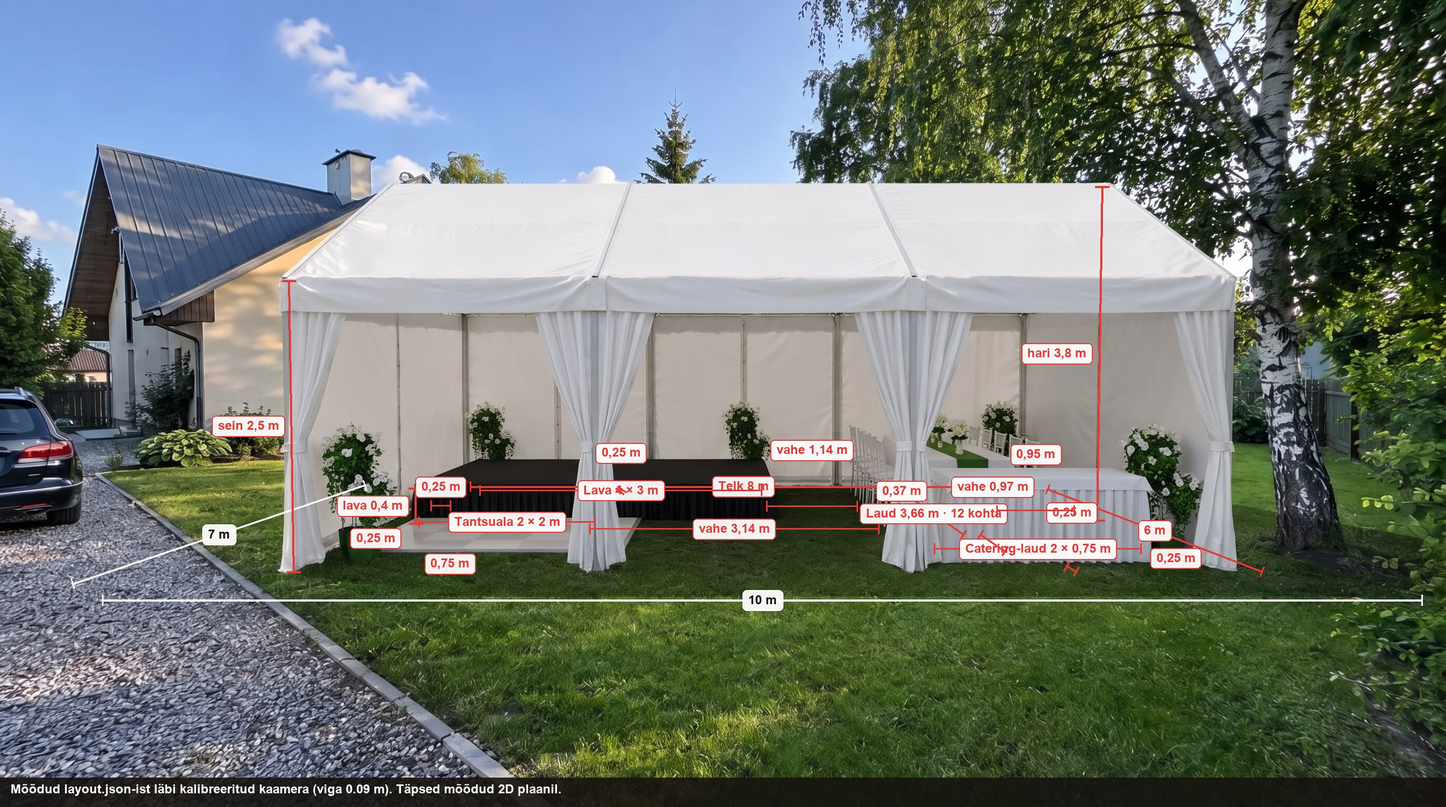
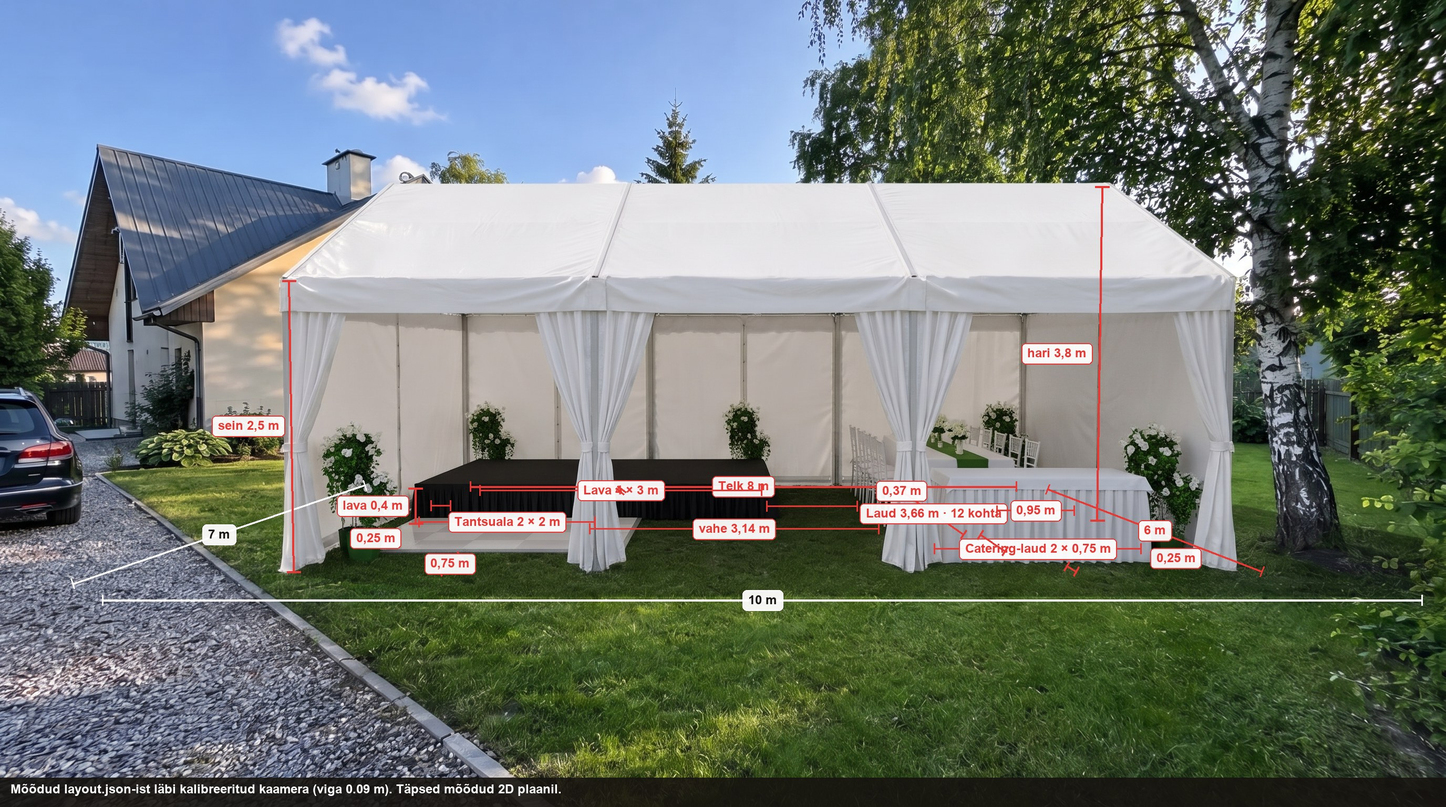
aiapidu brief: siltide kattumine koodis (väikesed vahesildid peidetakse, suured juhtjoonega), C pikk laud eest taha, kõrguste mõõtmine pikslites (height-errors.json)

diff --git a/demo/aiapidu/brief/measure-heights.py b/demo/aiapidu/brief/measure-heights.py
@@ -1,0 +1,51 @@
+# Kõrguse kontroll pikslites: telgi valge kanga ülaserv pildil vs projitseeritud sein/hari (kalibreeritud kaamera).
+import json,numpy as np,sys
+from PIL import Image
+D='/Users/taavimalm/objekti-ai/demo/aiapidu/brief';C=json.load(open(f'{D}/cam-cal.json'));f,th,h,W,H=C['f'],C['pitch'],C['h'],C['W'],C['H'];cx,cy=W/2,H/2
+AX,AN=.3-5,8.5
+def pj(px,py,z):
+  X=AX+px;Fw=AN+py;Y=h-z;zc=Fw*np.cos(th)+Y*np.sin(th);yc=-Fw*np.sin(th)+Y*np.cos(th);return cx+f*X/zc,cy+f*yc/zc
+def z_at(px,py,v):  # millisele kõrgusele vastab pildirida v (sama maapunkti kohal)
+  lo,hi=0.,8.
+  for _ in range(40):
+    m=(lo+hi)/2
+    if pj(px,py,m)[1]>v: lo=m
+    else: hi=m
+  return (lo+hi)/2
+def eave(a,u,v_top,v_lo):  # katuseriba alumine serv: valgest allapoole esimene mittevalge rida (avatud sisemus postide vahel)
+  white=lambda v:(lambda p:p.min()>175 and p.max()-p.min()<45)(a[v,int(u)-2:int(u)+3].mean(0))
+  v=int(v_top)
+  while v<v_lo and not white(v): v+=1
+  while v<v_lo and white(v): v+=1
+  return v
+def top_white(a,u,v_lo,v_hi):  # esimene rida ülalt, kus 5 px veerg on valge kangas
+  for v in range(int(v_hi),int(v_lo)):
+    p=a[v,int(u)-2:int(u)+3].mean(0)
+    if p.min()>185 and p.max()-p.min()<40: return v
+  return None
+out={}
+for v in sys.argv[1:]:
+  L=json.load(open(f'{D}/{v}-layout.json'))['layout'];o=L['origin'];R=L['room'];t=L['tent']
+  img=Image.open(f'/tmp/cal/ai-{v}.jpg').convert('RGB');S=img.width/W;a=np.asarray(img.resize((W,H))).astype(int)
+  res={}
+  if t['type']=='stretch':
+    for name,(px,py),z in [('serv (vasak ots)',(o['x']+.3,o['y']),t['sideH']),('tipp (vasak)',(o['x']+R['L']*.3,o['y']+R['W']/2),t['ridgeH']),('tipp (parem)',(o['x']+R['L']*.7,o['y']+R['W']/2),t['ridgeH'])]:
+      u,vz=pj(px,py,z);vt=top_white(a,u,pj(px,py,0)[1],vz-140);res[name]=(z,None if vt is None else round(z_at(px,py,vt),2))
+  else:
+    n=max(1,round(R['L']/3));mids=[(i+.5)/n for i in range(n)]
+    for k,fr in enumerate([mids[0],mids[-1]]):
+      px,py=o['x']+R['L']*fr,o['y'];u,vz=pj(px,py,t['sideH']);ve=eave(a,u,vz-150,pj(px,py,0)[1]);res[f'sein (räästas, vahe {k+1})']=(t['sideH'],round(z_at(px,py,ve),2))
+    px,py=o['x']+R['L']/2,o['y']+R['W']/2;u,vz=pj(px,py,t['ridgeH']);vt=top_white(a,u,pj(px,py,0)[1],vz-120);res['hari (keskel)']=(t['ridgeH'],None if vt is None else round(z_at(px,py,vt),2))
+  out[v]=res
+  for n,(z,m) in res.items(): print(v,n,'plaan',z,'pildil',m,'viga',None if m is None else round(abs(m-z),2))
+json.dump(out,open('/tmp/cal/meas.json','w'),ensure_ascii=False)
+# kontrollpilt: mõõdetud read (sinine) vs projitseeritud kõrgus (punane)
+from PIL import ImageDraw
+for v in sys.argv[1:]:
+  L=json.load(open(f'{D}/{v}-layout.json'))['layout'];o=L['origin'];R=L['room'];t=L['tent']
+  im=Image.open(f'/tmp/cal/ai-{v}.jpg').convert('RGB').resize((W,H));d=ImageDraw.Draw(im)
+  pts=[(o['x']+R['L']*fr,o['y'],t['sideH']) for fr in ((.5/max(1,round(R['L']/3))),1-(.5/max(1,round(R['L']/3))))]+[(o['x']+R['L']/2,o['y']+R['W']/2,t['ridgeH'])] if t['type']!='stretch' else [(o['x']+.3,o['y'],t['sideH']),(o['x']+R['L']*.3,o['y']+R['W']/2,t['ridgeH']),(o['x']+R['L']*.7,o['y']+R['W']/2,t['ridgeH'])]
+  for (px,py,z),(n,(zz,m)) in zip(pts,out[v].items()):
+    u,vz=pj(px,py,z);d.line([(u-25,vz),(u+25,vz)],fill=(255,0,0),width=3)
+    if m is not None: vm=pj(px,py,m)[1];d.line([(u-25,vm),(u+25,vm)],fill=(0,120,255),width=3)
+  im.save(f'/tmp/cal/mk-{v}.jpg',quality=85)

diff --git a/demo/aiapidu/brief/dims-image.py b/demo/aiapidu/brief/dims-image.py
@@ -13,13 +13,17 @@ def draw(v,src,out):
   im=Image.open(src).convert('RGB');S=im.width/W;d=ImageDraw.Draw(im,'RGBA');F=FB(15*S);placed=[]
   P=lambda a,z=0:tuple(c*S for c in pj(a[0],a[1],z))
   segs=json.load(open(f'{D}/dims-{v}.json'))
-  def label(m,t,col):
-    tw=d.textlength(t,font=F)+14*S;th_=24*S;m=list(m)
-    for _ in range(8):
-      if any(abs(m[0]-q[0])<(tw+q[2])/2 and abs(m[1]-q[1])<th_ for q in placed): m[1]-=th_*.9
-      else: break
+  def label(m,t,col,small=False):
+    tw=d.textlength(t,font=F)+14*S;th_=24*S;m0=list(m);m=list(m)
+    hit=lambda m:any(abs(m[0]-q[0])<(tw+q[2])/2+3*S and abs(m[1]-q[1])<th_+2*S for q in placed)
+    if hit(m):
+      if small: return            # väikesed vahe-/seinamõõdud: kokkupõrkel silt ära (2D plaanil olemas), joon jääb
+      for k in range(1,10):       # suurem silt: nihuta üles ja tõmba juhtjoon
+        m=[m0[0],m0[1]-k*th_]
+        if not hit(m): break
+      d.line([tuple(m0),(m[0],m[1]+th_/2)],fill=col if col!=(255,255,255) else (60,60,60),width=int(1.2*S))
     placed.append((m[0],m[1],tw));d.rounded_rectangle([m[0]-tw/2,m[1]-th_/2,m[0]+tw/2,m[1]+th_/2],radius=5*S,fill=(255,255,255,240),outline=col,width=int(1.4*S));d.text((m[0]-tw/2+7*S,m[1]-th_/2+3*S),t,fill=col if col!=(255,255,255) else (22,19,15),font=F)
-  for s in sorted(segs,key=lambda s:{'area':0,'tent':1,'vert':2,'size':3,'gap':4,'wall':5}[s['kind']]):
+  for s in sorted(segs,key=lambda s:{'area':0,'tent':1,'vert':2,'size':3,'gap':4,'wall':5}[s['kind']]):  # tähtsamad sildid enne
     if s['kind']=='vert':
       a=P(s['a']);b=P(s['a'],s['h']);d.line([a,b],fill=RED,width=int(2.6*S))
       for q in (a,b):d.line([(q[0]-8*S,q[1]),(q[0]+8*S,q[1])],fill=RED,width=int(2.6*S))
@@ -28,9 +32,9 @@ def draw(v,src,out):
     d.line([a,b],fill=col,width=int((3 if s['kind'] in('area','tent') else 2.2)*S))
     L=max(1e-6,np.hypot(b[0]-a[0],b[1]-a[1]));nx,ny=-(b[1]-a[1])/L*6*S,(b[0]-a[0])/L*6*S
     for q in (a,b):d.line([(q[0]-nx,q[1]-ny),(q[0]+nx,q[1]+ny)],fill=col,width=int(2.2*S))
-    label(((a[0]+b[0])/2,(a[1]+b[1])/2),s['t'],col)
+    label(((a[0]+b[0])/2,(a[1]+b[1])/2),s['t'],col,s['kind'] in ('gap','wall'))
   d.rectangle([0,im.height-34*S,im.width,im.height],fill=(22,19,15,230))
   d.text((12*S,im.height-29*S),f"Mõõdud layout.json-ist läbi kalibreeritud kaamera (viga {C['rms']:.2f} m). Täpsed mõõdud 2D plaanil.",fill='white',font=F)
   im.save(out,quality=88)
 if __name__=='__main__':
-  for v in sys.argv[1:]: draw(v,f'/tmp/cal/ai-{v}.jpg',f'/tmp/cal/ov-{v}.jpg')
+  for v in sys.argv[1:]: draw(v,f'/tmp/cal/fin-{v}.jpg',f'/tmp/cal/ov-{v}.jpg')
